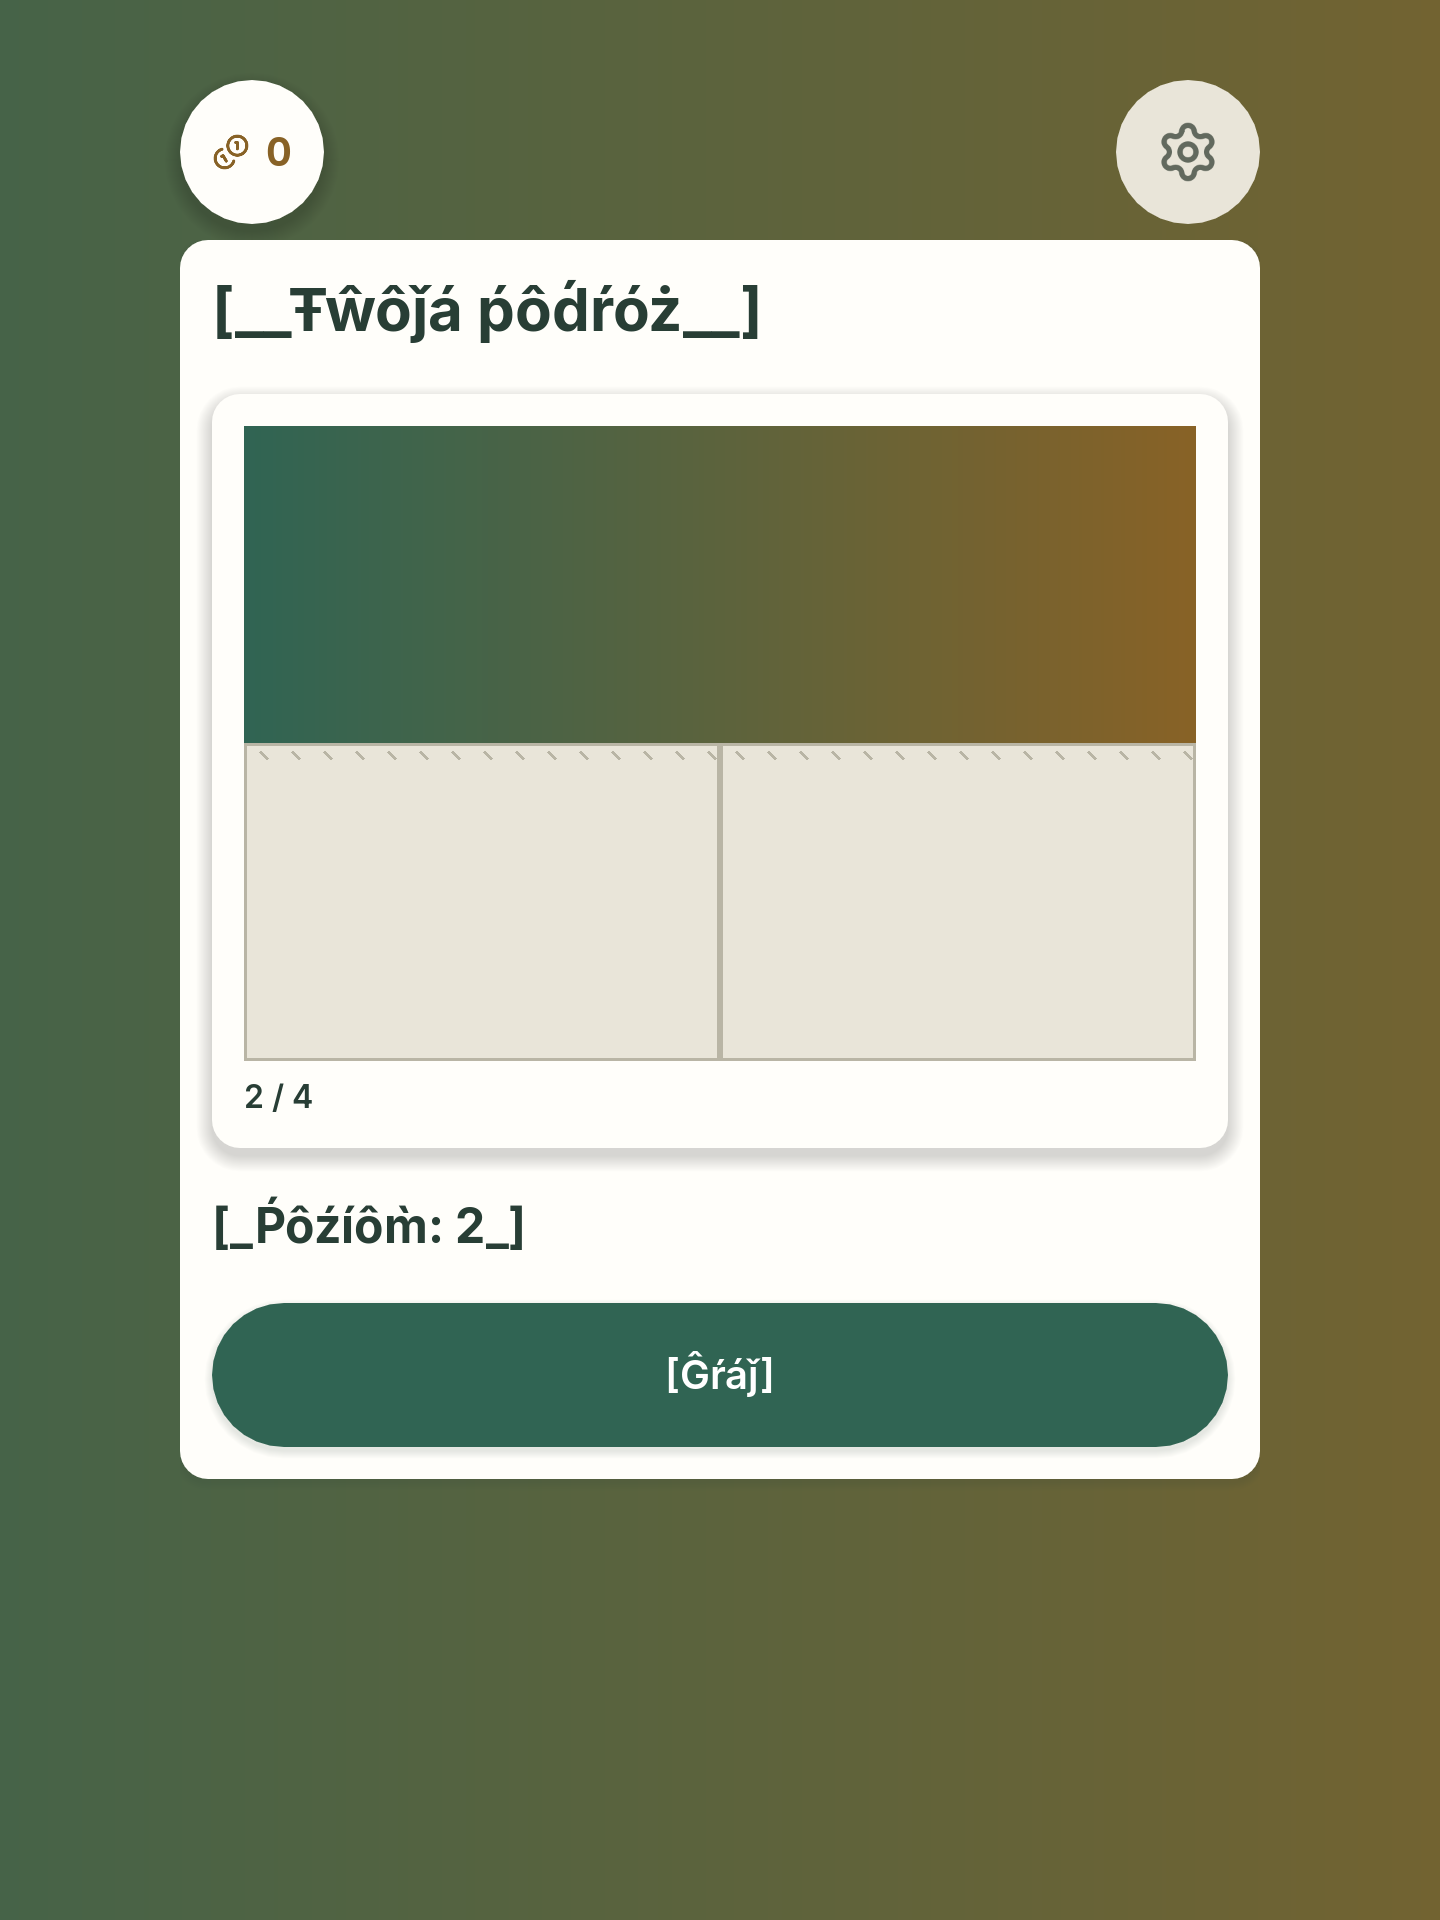
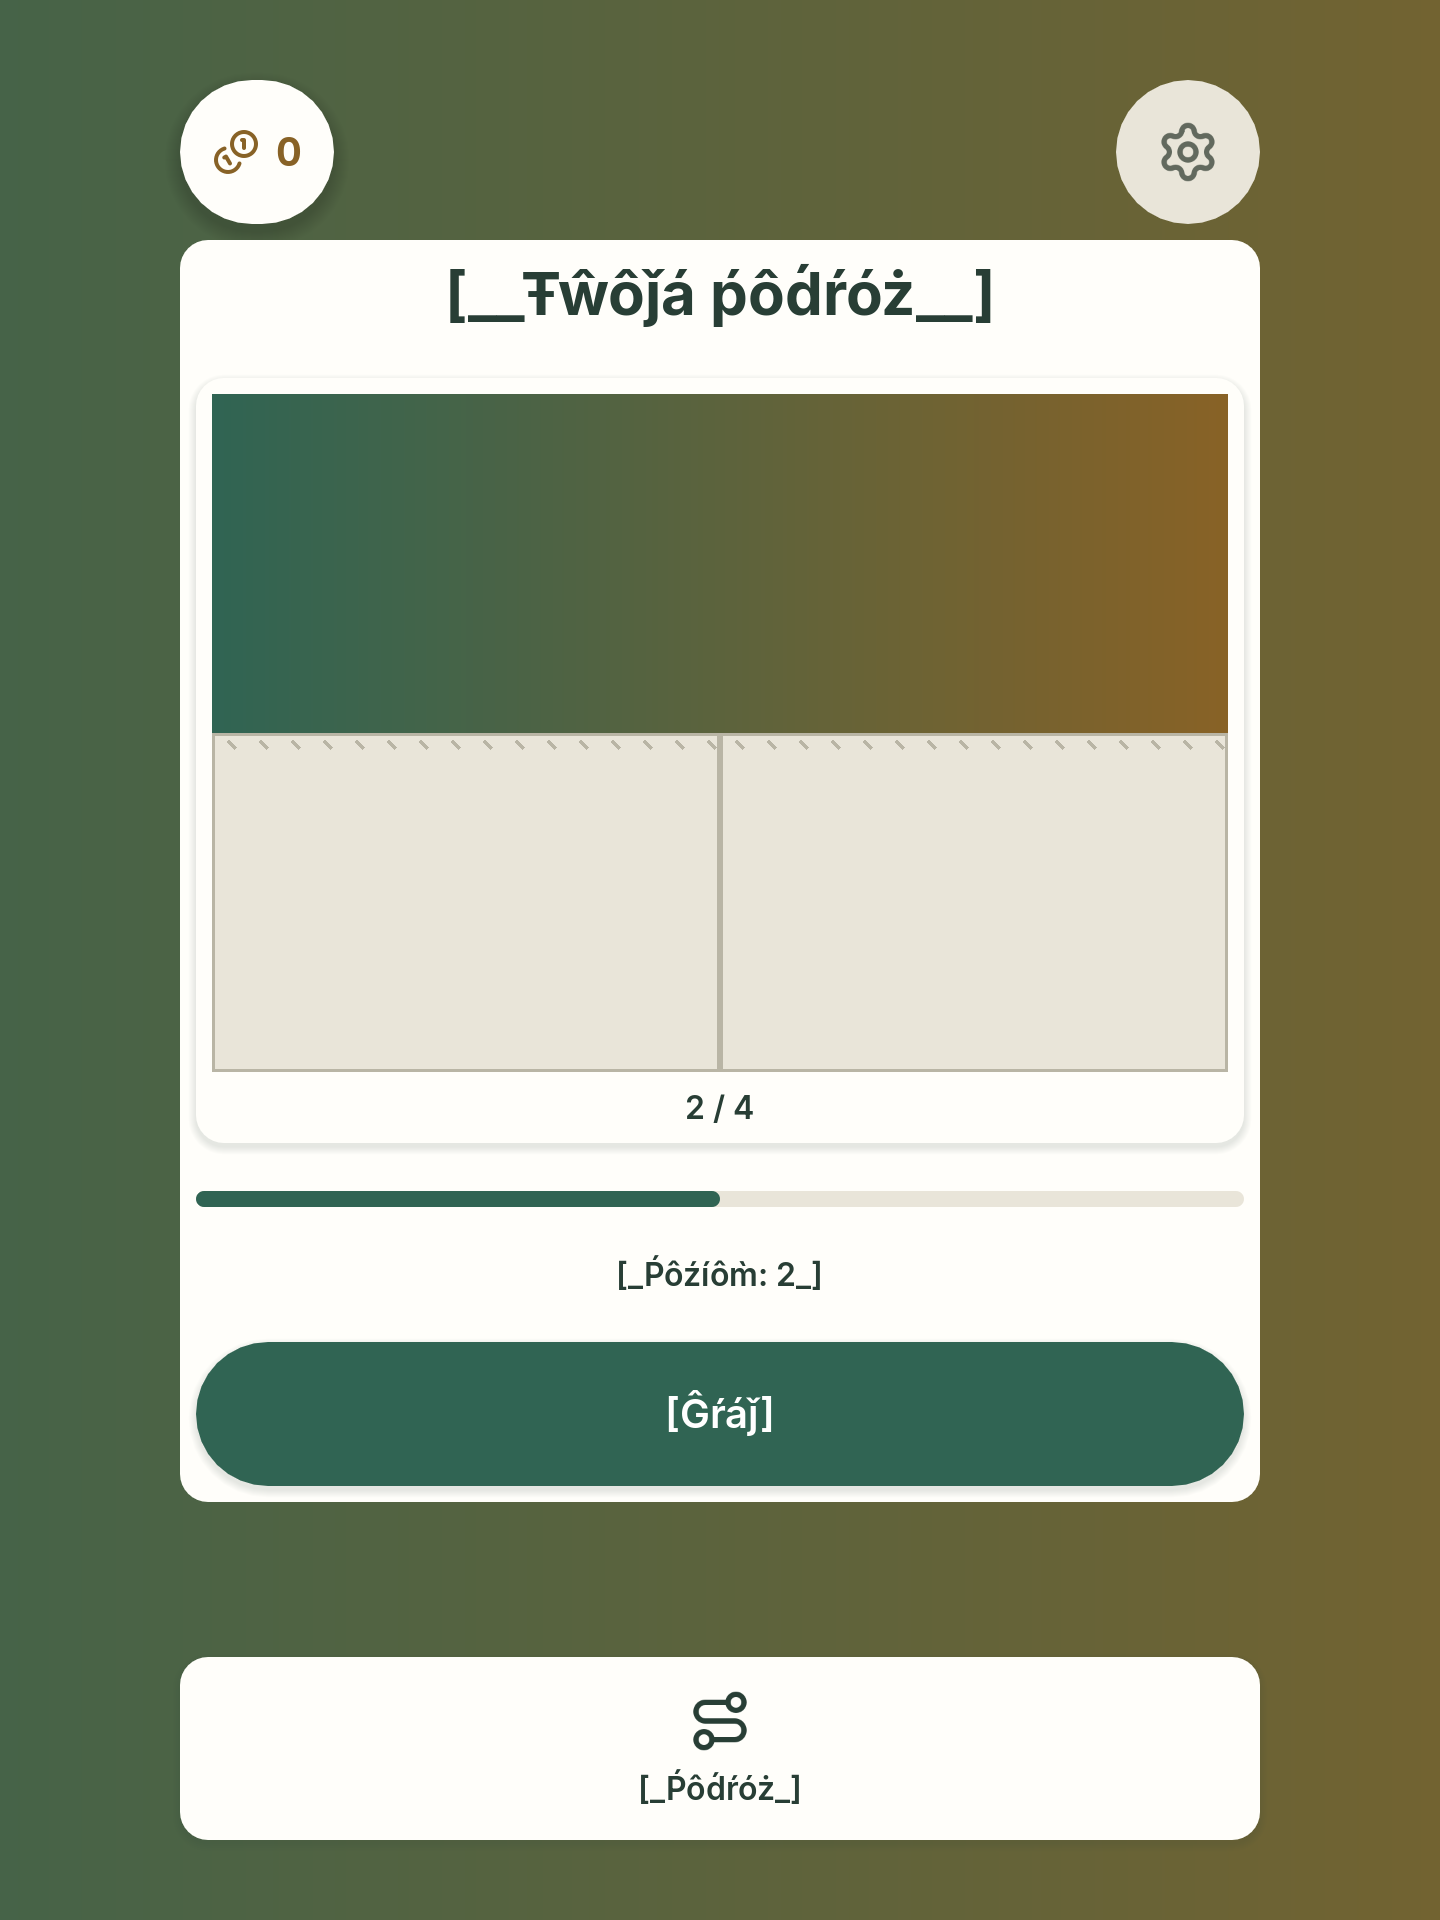
T-0244 fix(home): lighten postcard and clarify durable progress
* fix(home): lighten postcard and clarify durable progress [T-0244]

* chore(home): record owner acceptance [T-0244]

---------

Changed region(s): [[0.125, 0.125, 0.875, 0.7812], [0.125, 0.8438, 0.875, 0.9688], [0.1562, 0.0312, 0.25, 0.125]]

diff --git a/docs/qa/T-0244/README.md b/docs/qa/T-0244/README.md
@@ -7,26 +7,35 @@ so location art cannot reduce text contrast. No reusable component or theme was 
 Reference: [Home mockup](../../design/T-0205/evidence/home_TABLET_PL_default.png).
 The current shipped manifest has no location artwork; production therefore shows the explanatory
 missing-art state and actual durable piece count. The gradient in partial/complete captures is
-an injected review fixture, not final location art. Journey is hidden until T-0245 creates its
+an injected review fixture, not final location art. Journey uses the merged T-0245
 scene; Settings is disabled with explanatory tooltip until its screen exists. Daily/Collection
 remain P3. The next-level caption is adjacent to Play because the existing ActionButton does not
 support parameterized sublabels. Reference-device/taste review remains Chris's pending gate.
 
+## Revision 2 visual corrections
+
+Owner approved the full postcard frame/shadow adjustment and component/test scope expansion.
+Full uses Space.S / Elevation.LOW; thumb retains Space.M / Elevation.MID. Preset switching
+refreshes both styling and geometry. This is an explicit owner override of DESIGN's MID token.
+Home centers title and captions, uses a passive CatalogProgressBar derived only from committed
+pieces, and removes the enclosing surface shadow. Missing-art copy is shorter and avoids
+promising a specific content pack. Settings remains disabled; Journey routes the merged screen.
+PR #171 was superseded by #172; this revision preserves #173/#174 on fresh main e3fe760.
+
 ## Verification
 
-Godot 4.7.2 ed1daf0bf: full make check passed 588/588 GUT, 329 pipeline and 500 tools tests;
-formatting/lint, registries, content, UI strings and generated-theme guards passed. The final
-Home composition also passed native X11/Mesa llvmpipe GUT: 9/9 tests, 133 assertions. Tests verify
-committed values without writes, exact-slot partial-board restoration through the real Level,
-failed routing, unavailable services (including absent/unloaded Config alone), terminal content, partial/complete art, copy/re-entry and
-HC130/PSEUDO safe scrolling in all three layout classes. Existing tests were not changed.
-Task lint: 180 tasks. Scope, independent exact-head review and CI results are recorded in the PR.
+Godot 4.7.2 ed1daf0bf: 614/614 GUT tests pass, including all Home, Journey and Postcard cases.
+The two additional tests cover passive Home progress/copy/no writes and full/thumb styling
+across preset changes. Full make check and scope results are recorded in the PR.
+Native Apple M3 OpenGL/Metal captures cover all 15 states below; their run log contains no
+errors or warnings. Reviewed REGULAR PL partial/missing-art and COMPACT PSEUDO HC130 against
+the reference: centered progress is legible, frame/shadow is lighter, and Play stays reachable.
+Reference-device/taste approval remains Chris's gate.
 
 ## Native screenshots
 
-[capture.gd](capture.gd) reproduces these captures in a native X11 runtime after copying it into
-an isolated Godot project as res://capture244.gd. Run the engine with --path <isolated-game>
---display-driver x11 --rendering-method gl_compatibility --audio-driver Dummy -s res://capture244.gd.
+[capture.gd](capture.gd) reproduces these captures from the repository root:
+`godot --path game --rendering-method gl_compatibility --audio-driver Dummy -s ../docs/qa/T-0244/capture.gd`.
 The script writes only its own user:// capture save and these review PNGs. Fake safe insets are
 24/48 viewport pixels on each side. PL/PSEUDO uses GalleryShell.OPTIONS (35% expansion, accents, no doubled vowels); default100/HC130
 uses the shipped generated themes. Images are settled static UI, with no device certification claim.

diff --git a/tasks/T-0244-home.md b/tasks/T-0244-home.md
@@ -11,6 +11,8 @@ ui: high
 status: done
 depends_on: [T-0243, T-0220]
 touch:
+  - game/ui/components/LocationPostcard.gd
+  - game/tests/integration/test_reward_postcard.gd
   - game/features/home/**
   - game/services/nav.gd
   - game/locale/home.csv*
@@ -18,7 +20,7 @@ touch:
   - docs/qa/T-0244/**
   - tasks/T-0220-reward-postcard.md
   - tasks/T-0244-home.md
-revision: 1
+revision: 2
 ---
 
 ## Goal
@@ -31,14 +33,22 @@ next campaign slot and one Play action. Reconcile the already merged T-0220 prer
 - Reference: docs/design/T-0205/evidence/home_TABLET_PL_default.png and DESIGN.md#home.
 
 ## Current state
-Main aac79fa merged T-0243; Nav lazily mounts res://features/home/home.tscn (currently absent),
-provides guarded go_to_level/go_to_screen and owns pending Toasts. Save.committed_view returns
-sections with economy.coins and progress.by_lang[language].current_slot/location_pieces.
-Content.location_for_slot returns name_key, postcard resource path and pieces; the shipped legacy
-manifest has virtual campaign metadata with no art. Content.get_language and slot_count exist.
-Config.get_int(meta.postcard.pieces) is available. ScreenScaffold, TopBar, CurrencyPill,
-IconButton, PrimaryButton, NavTab, LocationPostcard, StatePanel and LocaleCatalog exist.
-Global Progress P2 is deliberately not activated by Nav; do not activate it here.
+Revision 2 starts from main e3fe760, with Home (#172), Journey (#173) and Postcard (#174)
+already merged. Home extends ScreenScaffold and exposes configure and refresh; it mounts
+ReadingSurface, Postcard, MissingArt, Progress, NextLevel and Play. LocationPostcard exposes
+configure(image, total, revealed, mode), with full/thumb presets currently sharing Space.M
+padding and MID shadow. CatalogProgressBar exposes set_value(value, animate). Save, Content,
+Config and Nav contracts remain as implemented and must be preserved.
+
+## Owner-authorized visual revision
+Chris requested Home corrections and explicitly approved LocationPostcard.gd and
+test_reward_postcard.gd scope expansion on 2026-10-14. The full preset uses Space.S padding
+and LOW shadow (owner override of the documented MID visual token); thumb retains M/MID.
+Refresh styling when switching presets. Center Home title/captions, add passive normalized
+progress using CatalogProgressBar, lighten the enclosing reading surface, and shorten missing-art
+copy without promising a particular content update. Preserve Settings/Journey behavior and all
+newer navigation, durable state and reveal behavior. No new public API or component.
+The older parallel PR #171 was closed as superseded; reimplement on fresh main with -r2.
 
 ## Specification
 1. Add Home scene/script extending ScreenScaffold. Nav injects its actual Save/Content/Config and
@@ -76,6 +86,8 @@ Native COMPACT/REGULAR/TABLET, PL/PSEUDO, default100/HC130 captures plus mockup 
 Chris owns reference-device screenshots and taste approval, recorded as pending rather than fabricated.
 
 ## Tests
+Revision 2 additionally verifies full/thumb padding and shadow across preset changes, passive
+Home progress for partial/complete/missing-art states and centered captions without Save writes.
 New test_home.gd: injected-service boot/mount; committed coins/location/pieces/slot and no writes;
 partial saved board resumes through actual Level; failed navigation preserves Home and explains;
 terminal slot never replays; invalid services (including Config alone missing/unloaded)/missing art graceful; configured art partial/complete;
